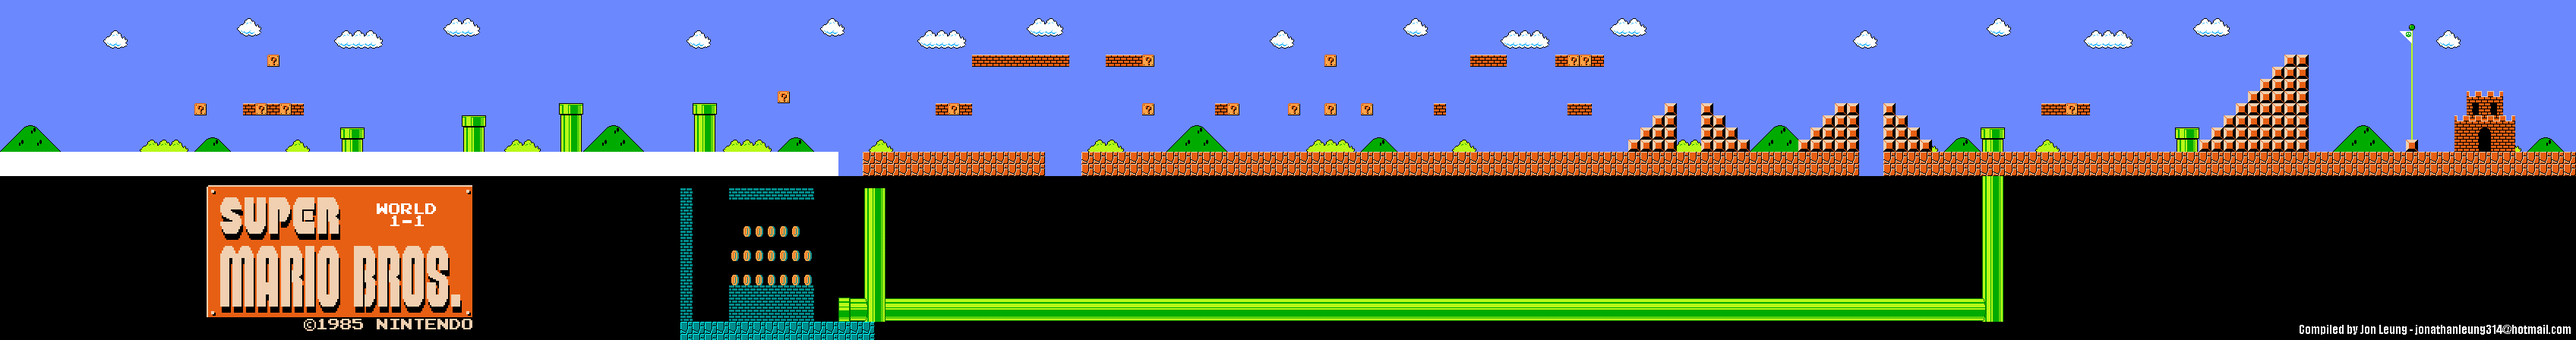
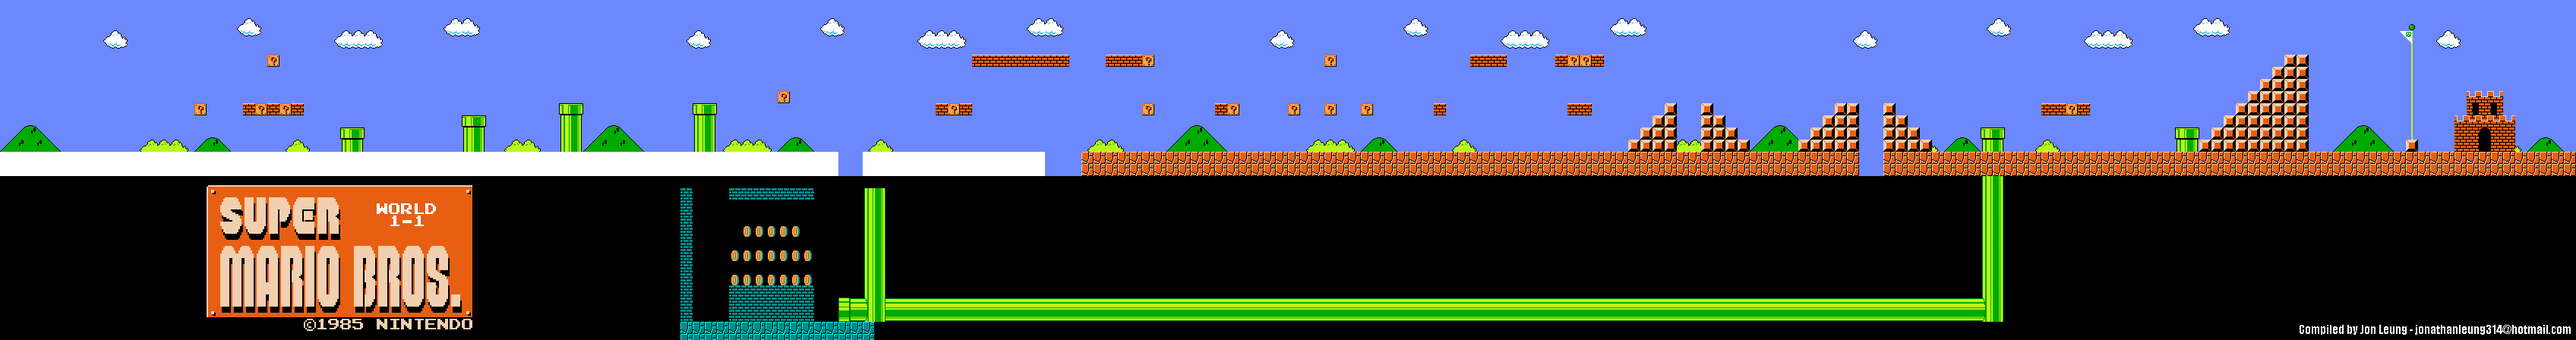
Added tile.

Changed region(s): [[0.3125, 0.4375, 0.4062, 0.5312]]

diff --git a/super_marianito/entities/supermarianito.py b/super_marianito/entities/supermarianito.py
@@ -216,13 +216,8 @@ class SuperMarianito(Entitiy):
 				elif collision[0].buttom_in:
 					self.position[1] = collision[0].other.get_bounding_box().get_top() - self.get_bounding_box().height + 2
 			elif collision[0].collided and collision[0].other.type=='level':
-				if collision[0].buttom_in and self.state_step == 'fall':
-					self.position[1] = collision[0].other.get_bounding_box().get_top() - self.get_bounding_box().height + 2
-					front = self.states[self.state_step].front
-					self.state_step = 'stand'
-					self.states[self.state_step].reset(front)
-				elif collision[0].buttom_in:
-					self.position[1] = collision[0].other.get_bounding_box().get_top() - self.get_bounding_box().height + 2
+				self._interact_with_level(collision)
+				
 
 		if not len(self.collisions.items()) and self.start_falling and self.state_step == 'run':
 			front = self.states[self.state_step].front
@@ -235,6 +230,15 @@ class SuperMarianito(Entitiy):
 			self.start_falling = False
 
 		self.collisions = {}
+
+	def _interact_with_level(self, collision):
+		if collision[0].buttom_in and self.state_step == 'fall':
+			self.position[1] = collision[0].other.get_bounding_box().get_top() - self.get_bounding_box().height + 2
+			front = self.states[self.state_step].front
+			self.state_step = 'stand'
+			self.states[self.state_step].reset(front)
+		elif collision[0].buttom_in:
+			self.position[1] = collision[0].other.get_bounding_box().get_top() - self.get_bounding_box().height + 2
 
 	def kill(self):
 		self.dead = True

diff --git a/super_marianito/main.py b/super_marianito/main.py
@@ -63,8 +63,10 @@ def set_up_questionblock(game_state, config, position, name):
 
 def set_up_level(game_state, config):
 	tile1 = LevelTile((0,200),'./graphics/level1-1_block_1.png')
+	tile2 = LevelTile((1136,200),'./graphics/level1-1_block_2.png')
 
 	game_state.add_entitiy(('tile1',tile1))
+	game_state.add_entitiy(('tile2',tile2))
 
 def restart(game_state, config):
 	#creae game state
